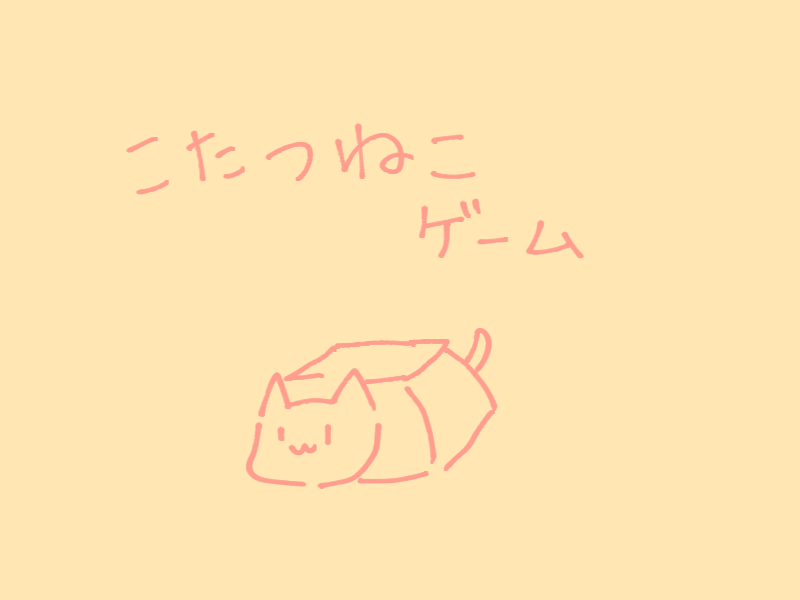
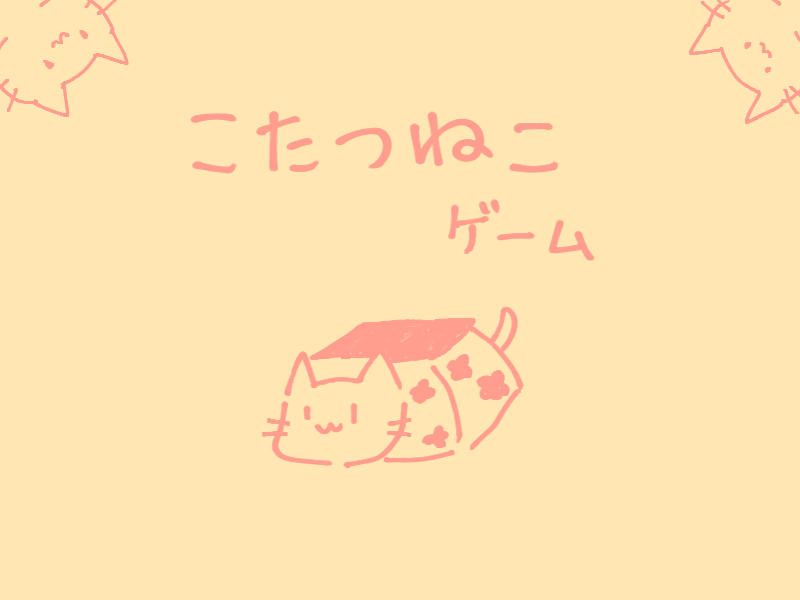
mainととのえ

diff --git a/src/scene/play.ts b/src/scene/play.ts
@@ -7,7 +7,6 @@ class play extends Phaser.Scene {
     catlength: number[] = [3,2,1]
     //撫でてもいい回数を決める
     putmaxcnt: number = 15;
-
     //どの猫がどこにいるかを把握する配列
     cat: number[][]= [
         [0,0,0,0,0],
@@ -30,41 +29,56 @@ class play extends Phaser.Scene {
     create() {
 
        const starttext = this.add.text(window.innerWidth/2,window.innerHeight/2,'start!!!',{fontSize: '60px'});
-
-        this.tweens.add({
+       this.tweens.add({
             targets: starttext,
             alpha: 0,
             duration: 3000,
             ease: 'Power2'
         });
 
+
+
         //猫配置
         catset(this.catlength,this.cat);
 
 
         //画面構築
+        const back = this.add.image(window.innerWidth/2,window.innerHeight/2, 'play');
+        const kotatu = this.add.image(back.x-20,back.y,'kotatu');
+        const container = this.add.container(kotatu.x,kotatu.y);
+        
         //左上に残り回数
-        const restput = this.add.text(50,50,this.putmaxcnt.toString());
-
-        const catimage:Phaser.GameObjects.Image[] = new Array;
+        const hand = this.add.image(-kotatu.width/2-70,-kotatu.height/2+20,'hand');
+        const ato = this.add.text(-kotatu.width/2-100,-kotatu.height/2-10,"あと",{fontSize:25, color:'gray'});
+        const restput = this.add.text(-kotatu.width/2-90,-kotatu.height/2+20,this.putmaxcnt.toString(),{fontSize:40,color:'gray'}).setOrigin(0);
+        const kai = this.add.text(-kotatu.width/2-60,-kotatu.height/2+60,"回",{fontSize:25, color:'gray'});
+        
+        const text = this.add.text(kotatu.width/2+10,-kotatu.height/3,"なでたねこ",{fontSize:30, color:'gray'});
+        container.add([hand, restput, ato, kai, text]);
+        
         //右側にのこりのねこ
-        this.add.text(500,100,"なでたねこ",{fontSize:30});
+        const beforecatimage:Phaser.GameObjects.Image[] = new Array;
+        const aftercatimage:Phaser.GameObjects.Image[] = new Array;
 
         this.catlength.forEach((_value, i) => {
-            console.log(i);
-            catimage[i] = this.add.image(500,100*i+200,'robot');
-            catimage[i].setAlpha(0).setOrigin(0).setDisplaySize(100,100);
+            beforecatimage[i] = this.add.image(kotatu.width/2+80,100*i-kotatu.height/6,'robot');
+            beforecatimage[i].setAlpha(1).setDisplaySize(100,100);
+
+            aftercatimage[i] = this.add.image(kotatu.width/2+80,100*i-kotatu.height/6,'robot');
+            aftercatimage[i].setAlpha(0).setDisplaySize(100,100);
+
+            container.add([beforecatimage[i], aftercatimage[i]]);
 
         })
 
         
 
-        //ボタンを配置
+        //ボタンを配置        
         for(var i=0; i<this.cat.length; i++){            
             for(var j=0; j<this.cat.length; j++){
 
                 const catcheck = this.cat[i][j];
-                const setButton = new Button(this, 85*j+100,85*i+100,"Button"+i+j, catcheck, {  
+                const setButton = new Button(this, -kotatu.width/3+85*j,-kotatu.height/3+85*i,"Button"+i+j, catcheck, {  
                     onClick: () => {
                         if(!setButton.getClk()){
                             this.putcnt++;
@@ -76,7 +90,8 @@ class play extends Phaser.Scene {
                             var check=0;
                             this.catlength.forEach((value, i) => {
                                 if(this.putcat[i]===value){
-                                    catimage[i].setAlpha(1);
+                                    beforecatimage[i].setAlpha(0);
+                                    aftercatimage[i].setAlpha(1);
                                     check++;
                                 }
                             });
@@ -91,7 +106,7 @@ class play extends Phaser.Scene {
                         }
                     }
                 });
-
+                container.add(setButton);
             }
         }
         

diff --git a/src/scene/loading.ts b/src/scene/loading.ts
@@ -37,6 +37,9 @@ class loading extends Phaser.Scene {
         this.load.image('howtobtn','howtobtn.png');
         this.load.image('top','top.png');
         this.load.image('onemore','onemore.png');
+        this.load.image('play', 'play.png');
+        this.load.image('kotatu', 'kotatu.png');
+        this.load.image('hand', 'hand.png');
 
 
     }
